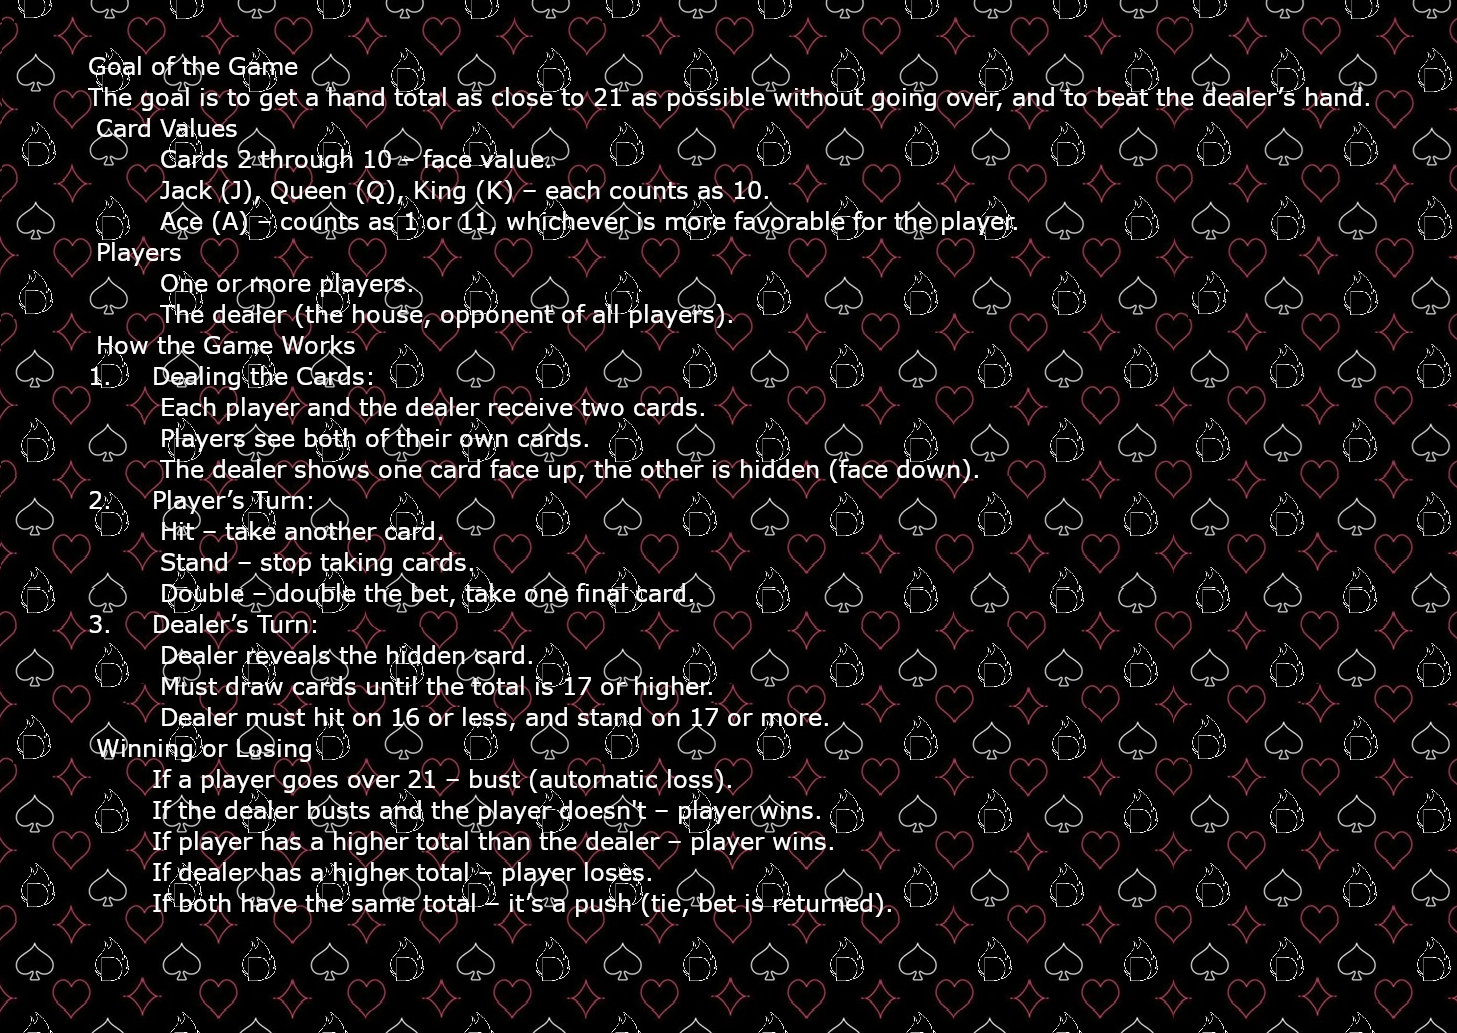
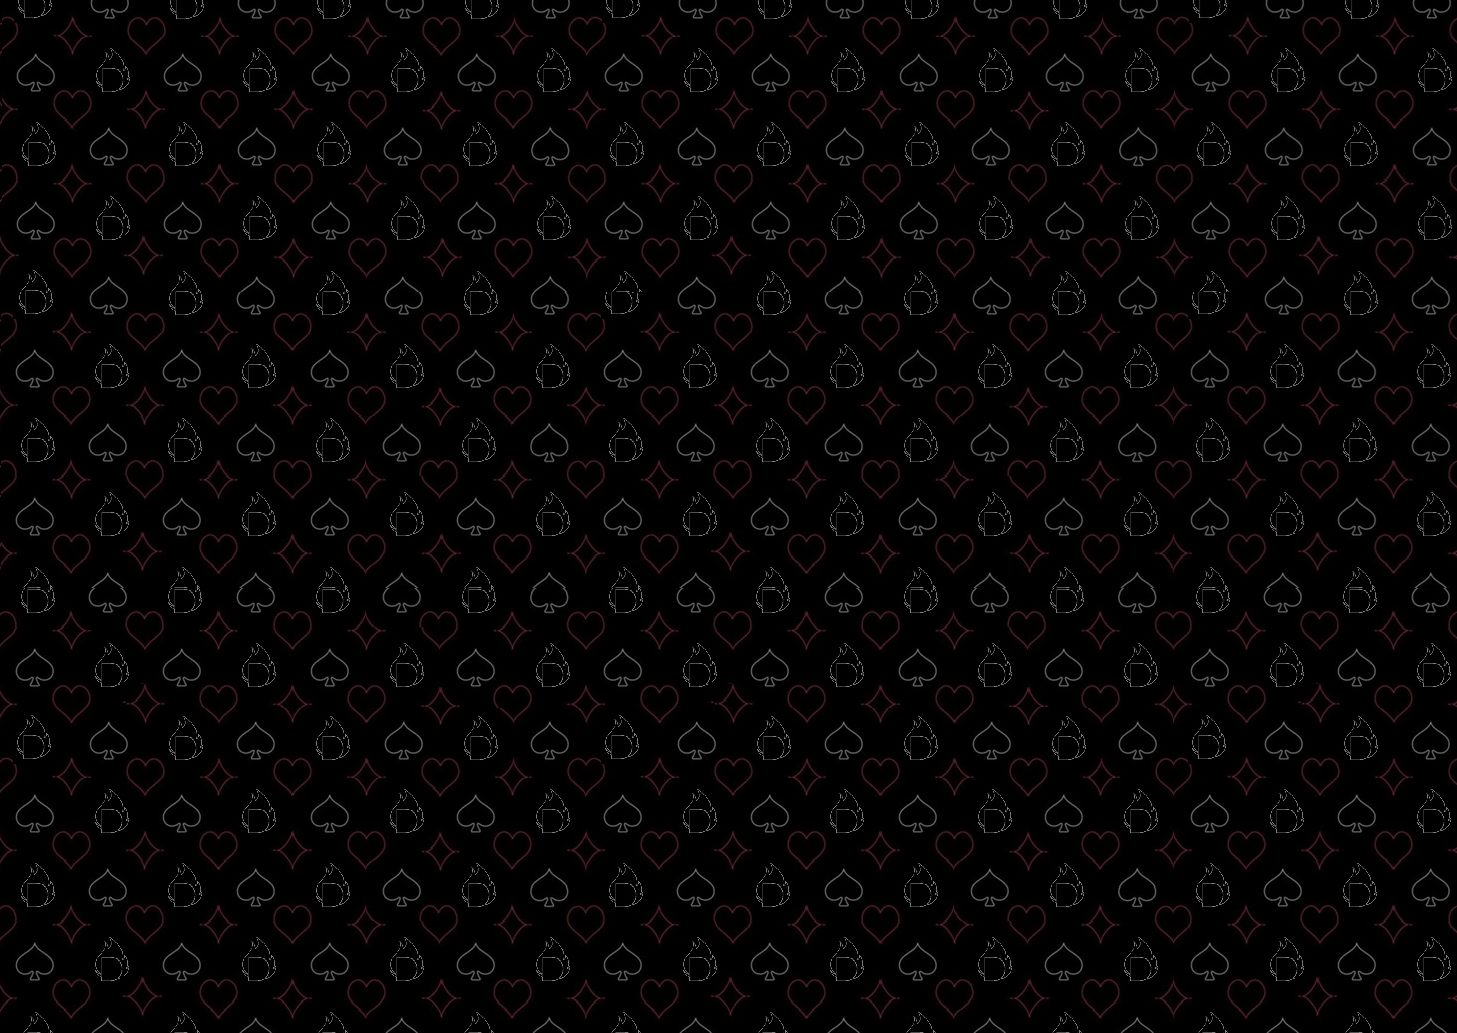
poprawienie rulesScreen

diff --git a/DanteBlackjack/RulesScreen.py b/DanteBlackjack/RulesScreen.py
@@ -10,7 +10,54 @@ class RulesScreen(Screen):
         pygame.time.Clock().tick(60)
         background = pygame.image.load(Rules_background_path)
         background = pygame.transform.scale(background, (resolutions[choice]))
+
+        game_rules = (
+            "Goal of the Game\n"
+            "The goal is to get a hand total as close to 21 as possible without going over, and to beat the dealer's hand.\n\n"
+
+            "Card Values\n"
+            "\tCards 2 through 10 - face values\n"
+            "\tJack (J), Queen (Q), King (K) – each counts as 10.\n"
+            "\tAce (A) counts as 1 or 11, whichever is more favorable for the player.\n\n"
+
+            "Players\n"
+            "\tOne or more players.\n"
+            "\tThe dealer (the house, opponent of all players).\n\n"
+
+            "How the Game Works\n"
+            "  1. Dealing the Cards:\n"
+            "\tEach player and the dealer receive two cards.\n"
+            "\tPlayers see both of their own cards.\n"
+            "\tThe dealer shows one card face up, the other is hidden (face down)\n\n"
+
+            "  2. Player's Turn:\n"
+            "\tHit - take another card.\n"
+            "\tStand - stop taking cards,\n"
+            "\tDouble - double the bet, take one final card.\n\n"
+
+            "  3. Dealer's Turn:\n"
+            "\tDealer reveals the hidden card.\n"
+            "\tMust draw cards until the total is 17 or higher.\n"
+            "\tDealer must hit on 16 or less, and stand on 17 or more.\n\n"
+
+            "Winning or Losing\n"
+            "\tIf a player goes over 21 - bust (automatic loss).\n"
+            "\tIf the dealer busts and the player doesn't - player wins.\n"
+            "\tIf player has a higher total than the dealer - player wins.\n"
+            "\tIf dealer has a higher total - player loses.\n"
+            "\tIf both have the same total - it's a push (tie, bet is returned).\n"
+        )
+        game_rules = game_rules.replace('\t', '        ')  # np. 4 spacje
+
         window.blit(background, (0, 0))
+        game_rules_lines = game_rules.splitlines()  # dzieli tekst po \n
+        font = pygame.font.Font(text_lobby_blackspace_path, scale_font(22, choice))
+        y = 10  # początkowa pozycja y
+
+        for line in game_rules_lines:
+            text_surface = font.render(line, True, (255, 255, 255))
+            window.blit(text_surface, (10, y))
+            y += font.get_linesize()  # przesunięcie w dół o wysokość linii
 
         RulesScreen_back.tool_draw(window)
 

diff --git a/DanteBlackjack/main.py b/DanteBlackjack/main.py
@@ -109,16 +109,10 @@ while running:
             if current_screen == lobby_screen:
                 current_screen.Start(window, choice)
                 if current_screen.lobby_add_table is not None and current_screen.lobby_add_table.tool_click_left():
-                    poz_x, poz_y = scale_position(current_screen.tables_positions[current_screen.number_of_tables][0],
-                                                  current_screen.tables_positions[current_screen.number_of_tables][
-                                                      1] + 200, choice)
-                    get_min_bet = Button(poz_x, poz_y, "hit.png")
-                    if get_min_bet.tool_click_left():
                         client.create_table(1)
                         sleep(2)
                         game_screen.set_table(client.table)
                         current_screen = game_screen
-                        print("33")
                 if current_screen != game_screen:
                     for i in range(len(current_screen.table_button_array)):
                         if current_screen.table_button_array[i].tool_click_left() and button_stop == False:

diff --git a/DanteBlackjack/path.py b/DanteBlackjack/path.py
@@ -33,3 +33,4 @@ task_2_path = root_path / "Grafika" / "Obiekty" / "zad12.png"
 task_3_path = root_path / "Grafika" / "Obiekty" / "zad13.png"
 task_4_path = root_path / "Grafika" / "Obiekty" / "zad14.png"
 task_5_path = root_path / "Grafika" / "Obiekty" / "zad15.png"
+
